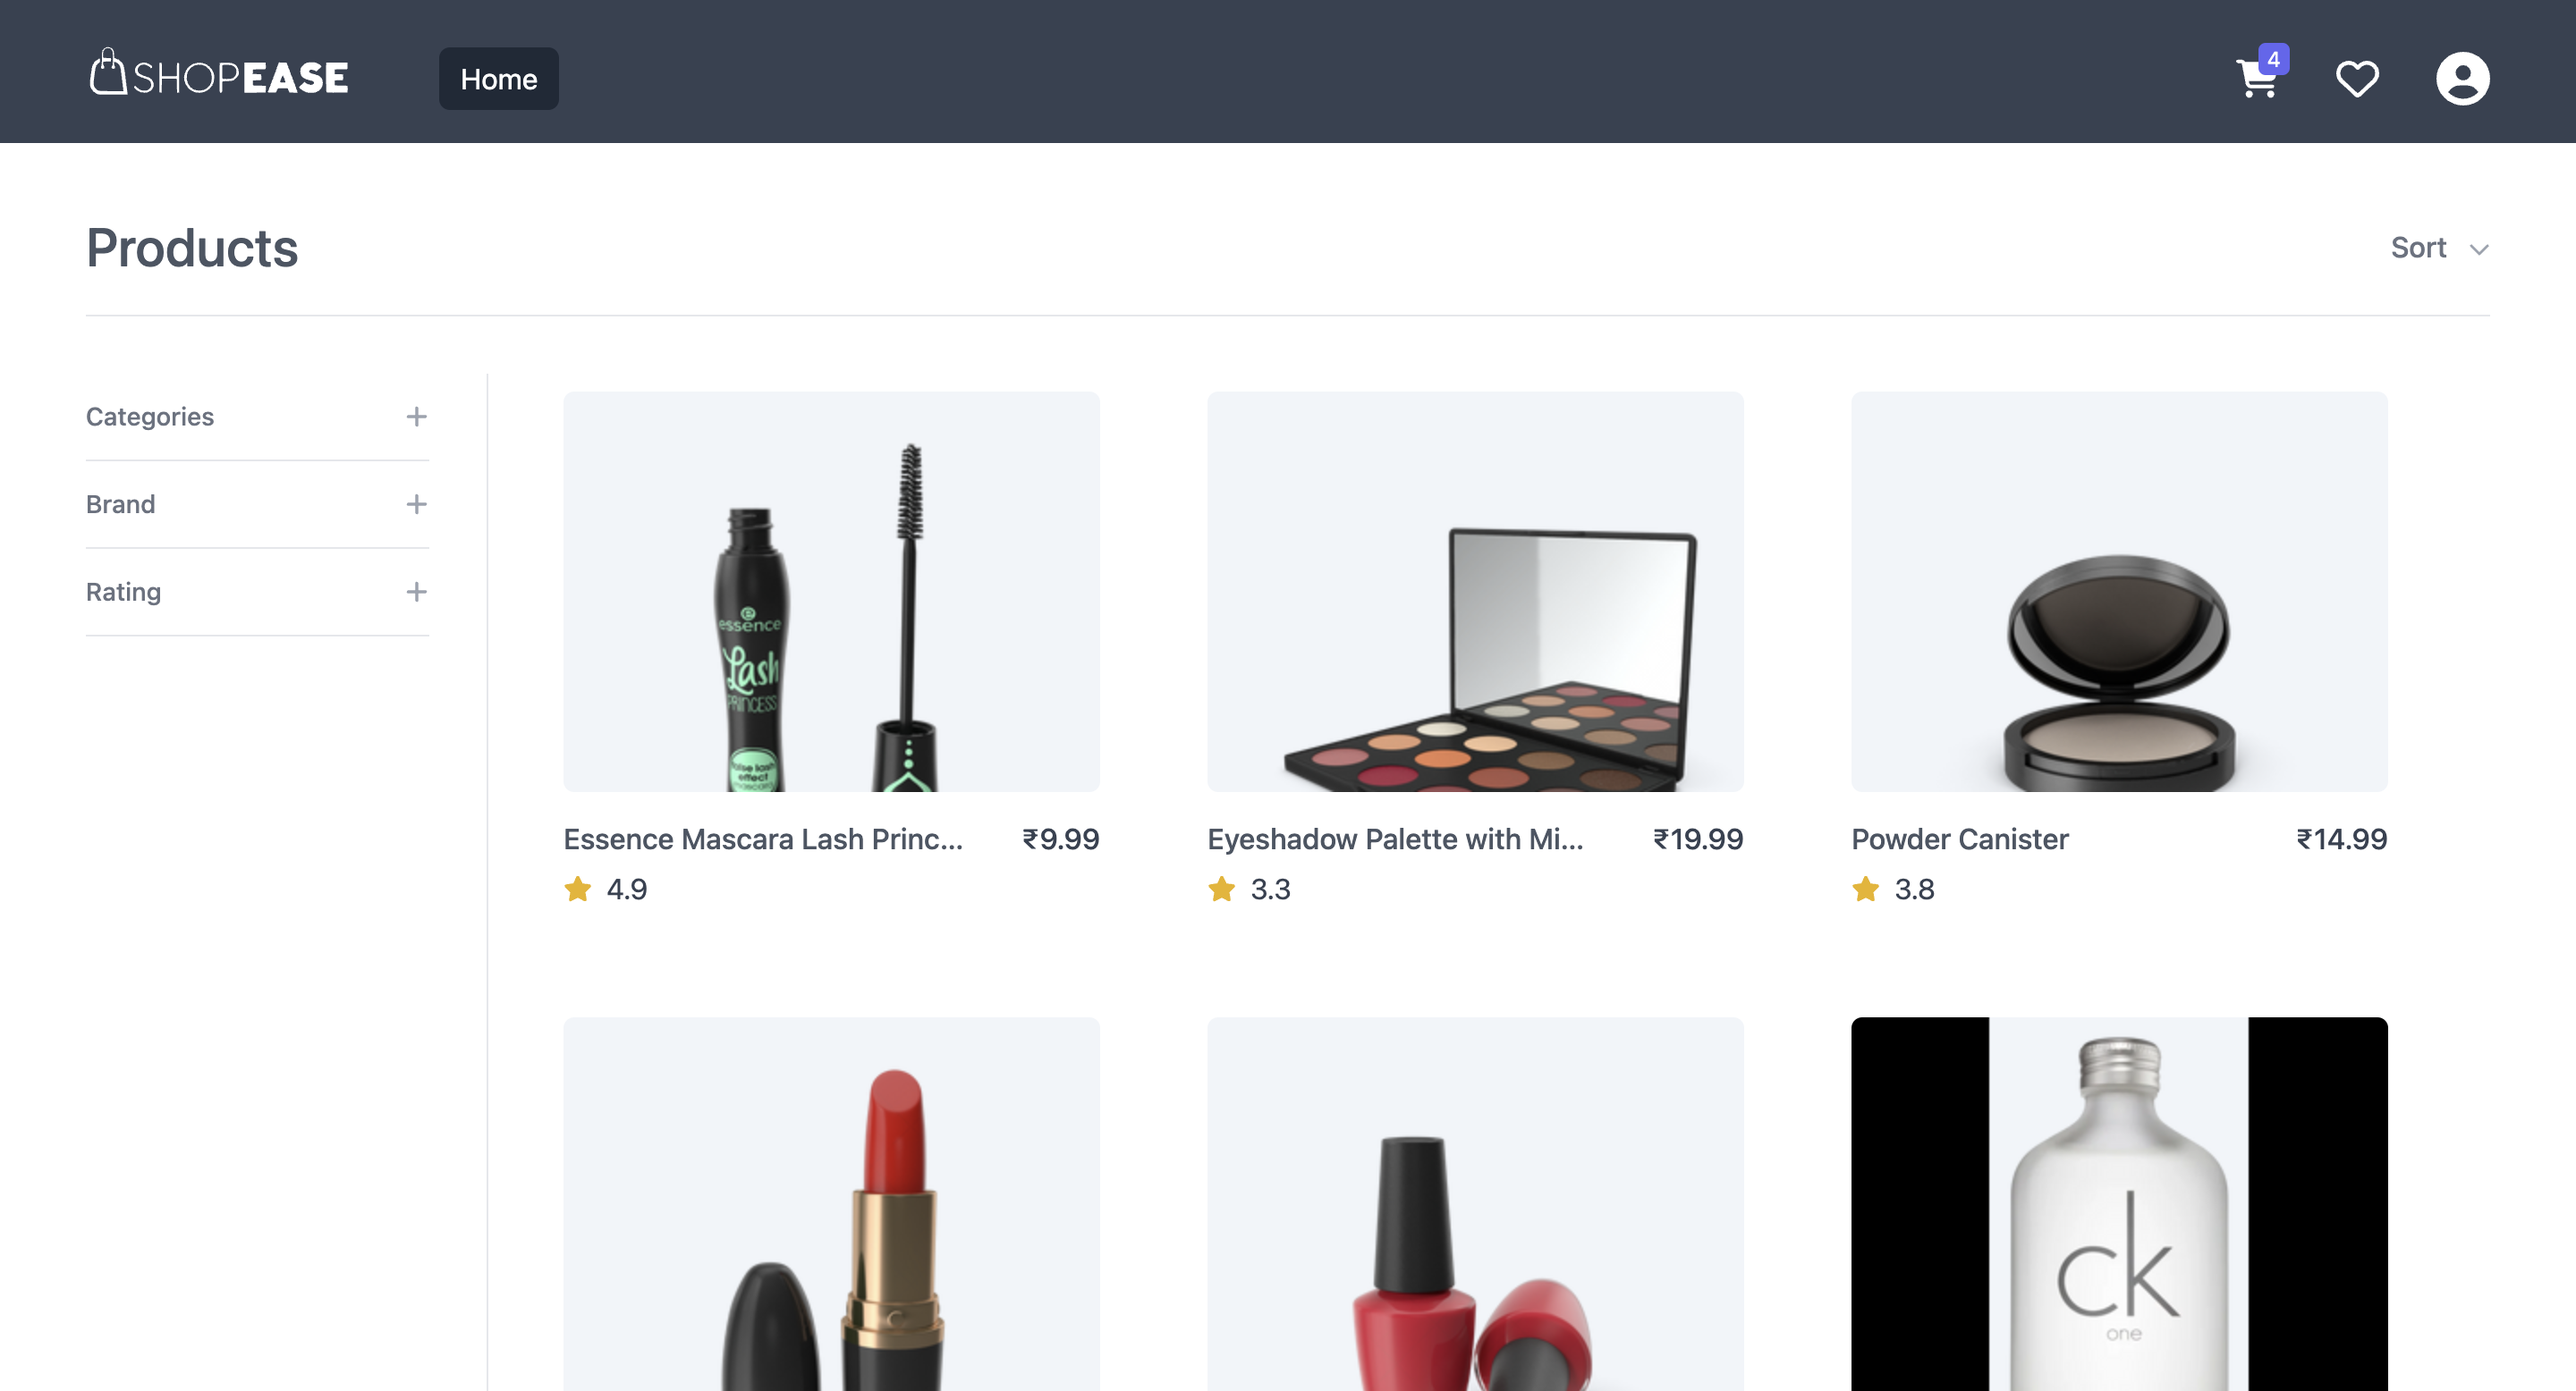
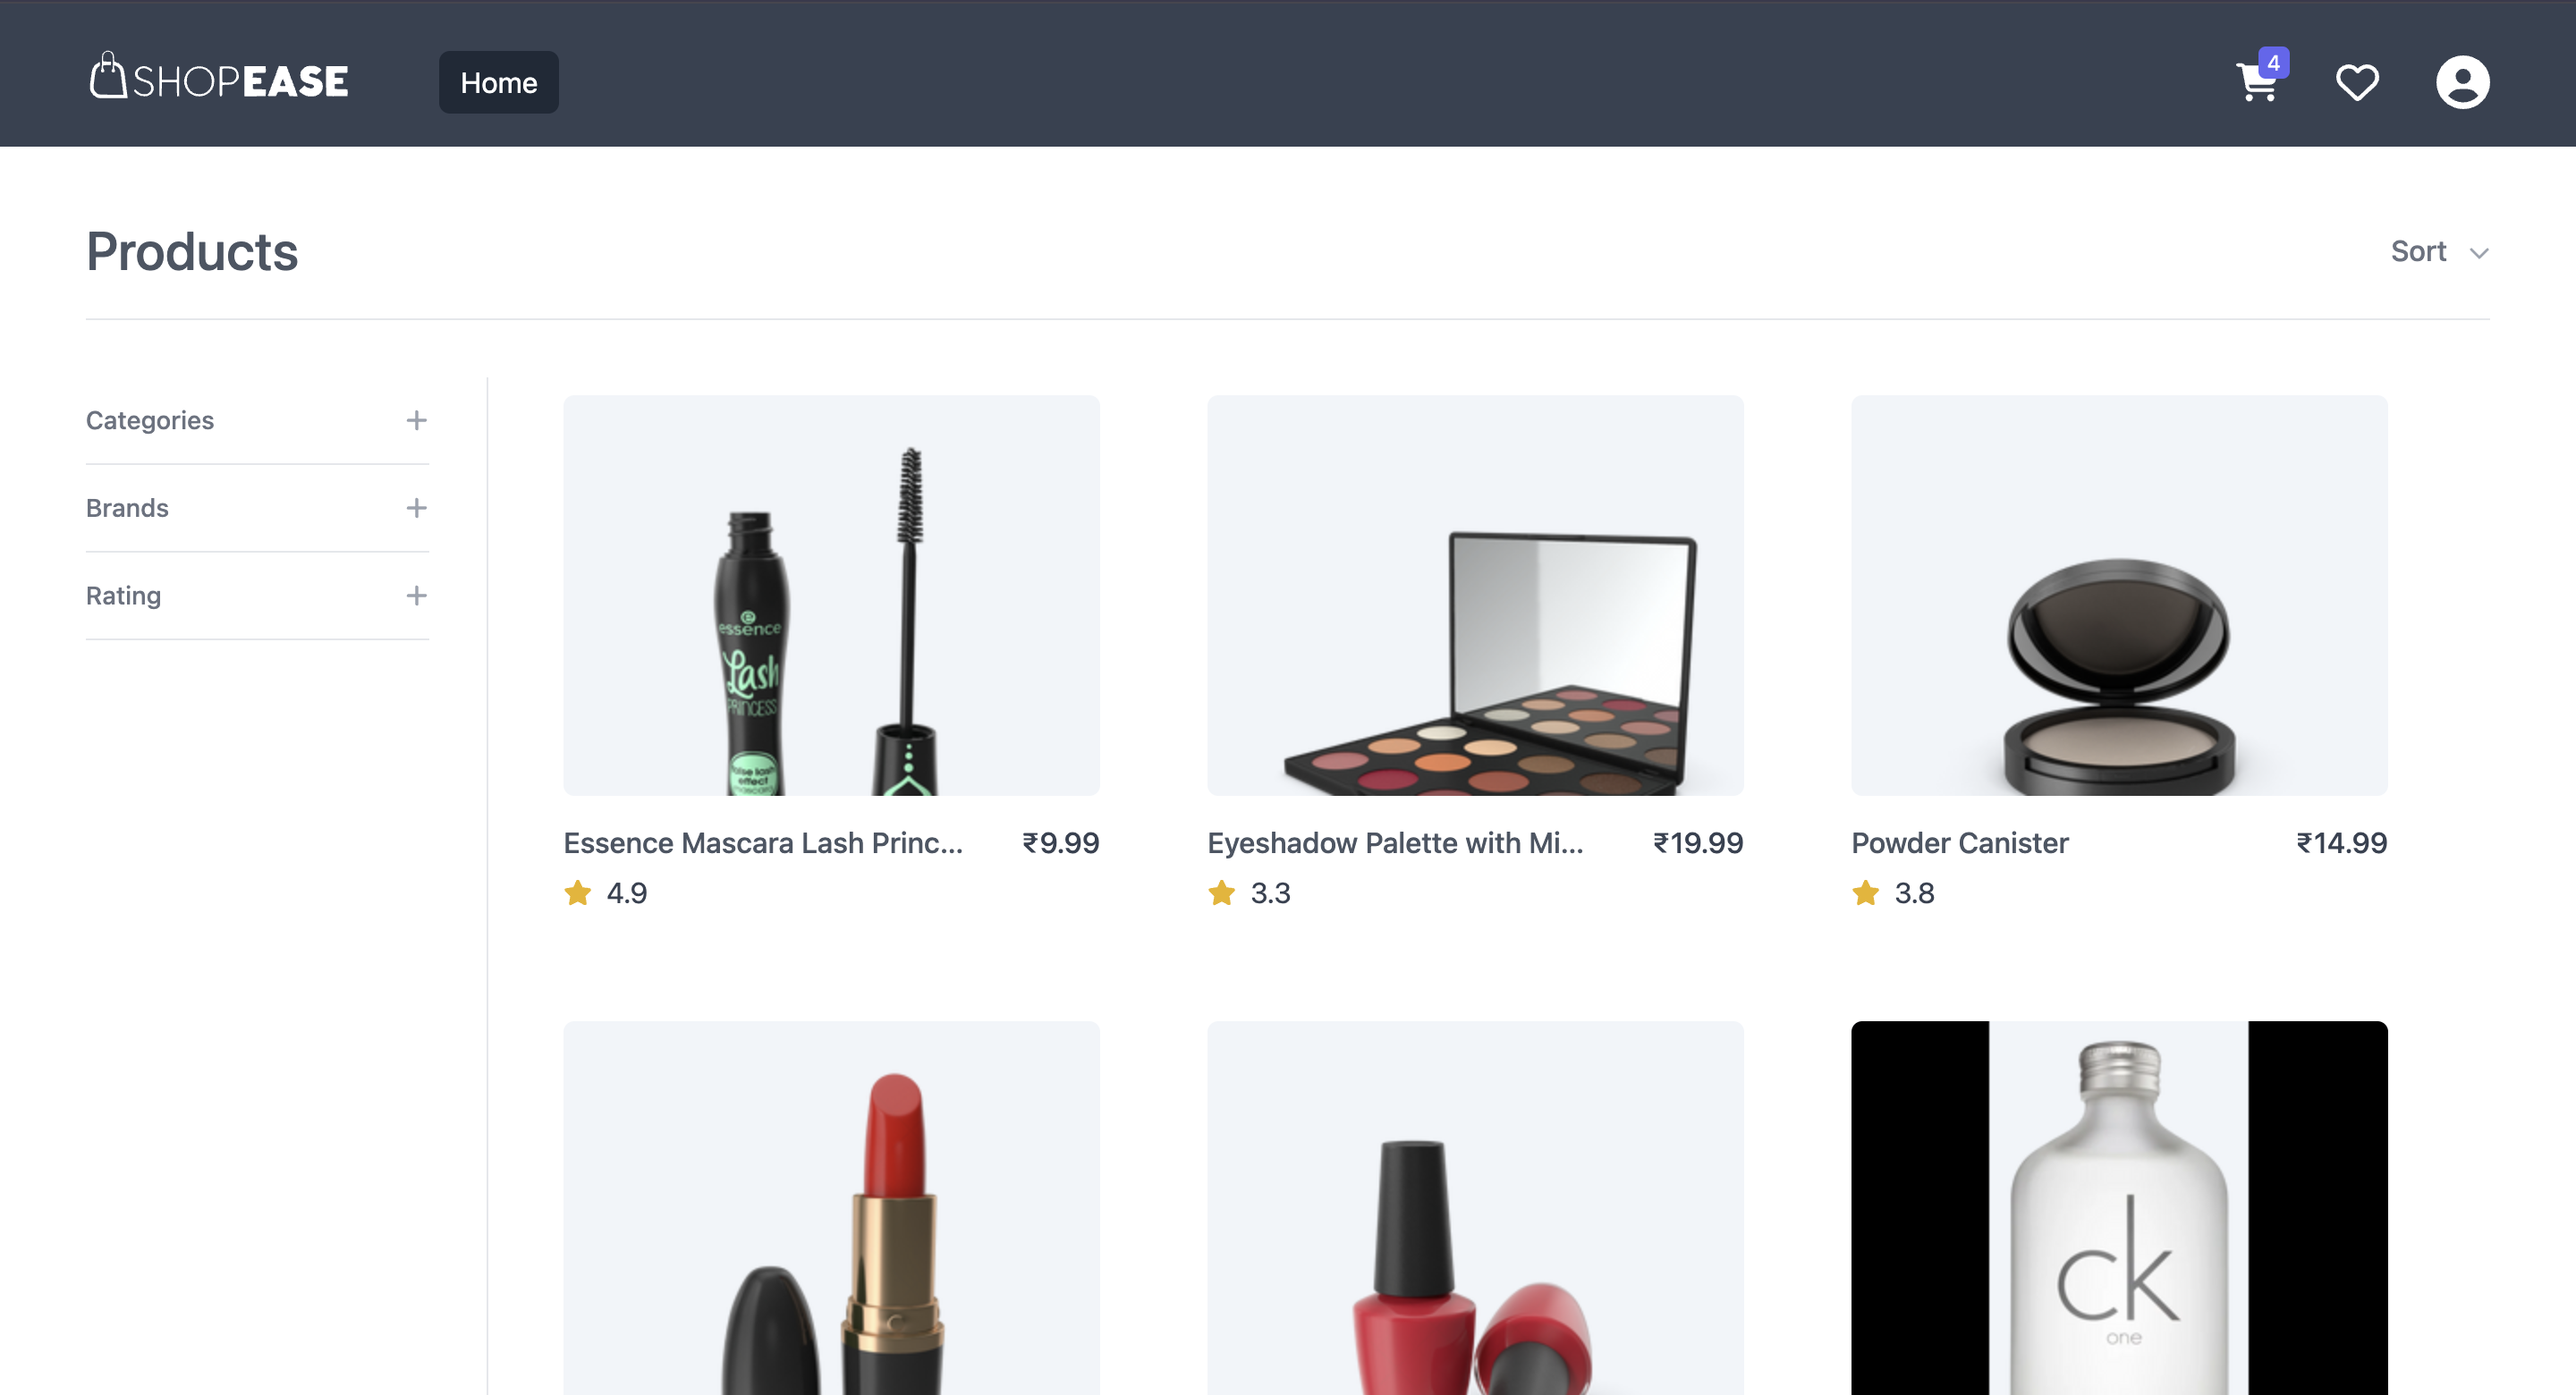
docs: reorder README sections

diff --git a/src/pages/AdminManageProducts.js b/src/pages/AdminManageProducts.js
@@ -30,7 +30,7 @@ const AdminManageProducts = () => {
 
   const filterOptions = [
     { id: 'category', name: 'Categories', options: categories },
-    { id: 'brand', name: 'Brand', options: brands },
+    { id: 'brand', name: 'Brands', options: brands },
     { id: 'rating', name: 'Rating', options: [4, 3, 2, 1] },
   ];
 

diff --git a/src/pages/Home.js b/src/pages/Home.js
@@ -32,7 +32,7 @@ const Home = () => {
 
   const filterOptions = [
     { id: 'category', name: 'Categories', options: categories },
-    { id: 'brand', name: 'Brand', options: brands },
+    { id: 'brand', name: 'Brands', options: brands },
     { id: 'rating', name: 'Rating', options: [4, 3, 2, 1] },
   ];
 

diff --git a/README.md b/README.md
@@ -6,36 +6,23 @@
 ## 0. Table of Contents
 
 1. [Overview](#1-overview)
-2. [Live Deployment](#2-live-deployment)
-3. [Demo Video](#3-demo-video)
-4. [Main Features](#4-main-features)
-5. [Advance Features](#5-advance-features)
-6. [Tools and technologies used](#6-tools-and-technologies-used)
+2. [Main Features](#2-main-features)
+3. [Advance Features](#3-advance-features)
+4. [Tools and technologies used](#4-tools-and-technologies-used)
+5. [Live Deployment](#5-live-deployment)
+6. [Demo Video](#6-demo-video)
 
 ## 1. Overview
 
 Shopease is an e-commerce platform designed to provide a seamless shopping experience to users. With a vast selection of products ranging from electronics and fashion to home goods and beauty products, Shopease aims to cater to all your shopping needs in one location.
 
-## 2. Live Deployment
+## 2. Main Features
 
-Shopease is deployed on a DigitalOcean Droplet using Nginx as a web server and is linked to a custom domain. `Live link` of the deployed project - [click here](http://shopease.shubhampurwar.in).
-
-## 3. Demo Video
-
-Demo video of the project is uploaded on youtube. To watch the demo video, [click here](https://youtu.be/AXzd7vaG-7Q).
-
-[![Preview](./media/preview.png)](https://youtu.be/AXzd7vaG-7Q)
-
-## 4. Main Features
-
-- Authentication
-  - User signup
-  - User login
-  - User logout
+- Authentication - signup, login, logout
 - Cart management
   - Add item to cart
   - Remove item from cart
-  - Update item quantity
+  - Update item quantity in cart
   - Clear cart
 - Wishlist management
   - Add item to wishlist
@@ -45,13 +32,13 @@ Demo video of the project is uploaded on youtube. To watch the demo video, [clic
   - Add new address
   - Update an address
   - Delete an address
-  - Set an address as default
+  - Set an address as the default
 - Profile management
   - Update profile - first name, last name, phone, password
   - Delete account
 - Products
-  - Filter by category, brand and rating
-  - Sort by rating, newly added, price-low to high and price-high to low
+  - Filter by categories, brands and rating
+  - Sort by rating, newly added, price-low to high, and price-high to low
 - View order history
 - Admin panel
   - Product management
@@ -67,7 +54,7 @@ Demo video of the project is uploaded on youtube. To watch the demo video, [clic
     - Delete an order
     - Sort orders by amount - asc or desc
 
-## 5. Advance Features
+## 3. Advance Features
 
 - Pagination to render large lists of products, orders and users
 - Sanitization and validation of data entered in React Forms
@@ -76,7 +63,7 @@ Demo video of the project is uploaded on youtube. To watch the demo video, [clic
 - Best practices of React and Redux to minimize unnecessary re-renders
 - Custom hooks to handle components like modals and dropdowns
 
-## 6. Tools and technologies used
+## 4. Tools and technologies used
 
 - Create React App to initialize React project
 - Tailwind CSS to style UI components
@@ -85,6 +72,16 @@ Demo video of the project is uploaded on youtube. To watch the demo video, [clic
 - Redux Thunks to fetch data from APIs and save it in a Redux store
 - Axios client to send HTTP requests
 - JSON Server as a mock backend to serve incoming API requests
-- Configured PM2 to keep JSON Server running as a daemon process to ensure availability
 - Morgan to log information about HTTP requests
 - Deployed on a DigitalOcean Droplet using Nginx as a web server
+- Configured PM2 to keep JSON Server running as a daemon process to ensure availability
+
+## 5. Live Deployment
+
+Shopease is deployed on a DigitalOcean Droplet using Nginx as a web server and is linked to a custom domain. To visit the live deployment, [click here](http://shopease.shubhampurwar.in).
+
+## 6. Demo Video
+
+Demo video of the project is uploaded on youtube. To watch the demo video, [click here](https://youtu.be/AXzd7vaG-7Q).
+
+[![Preview](./media/preview.png)](https://youtu.be/AXzd7vaG-7Q)
